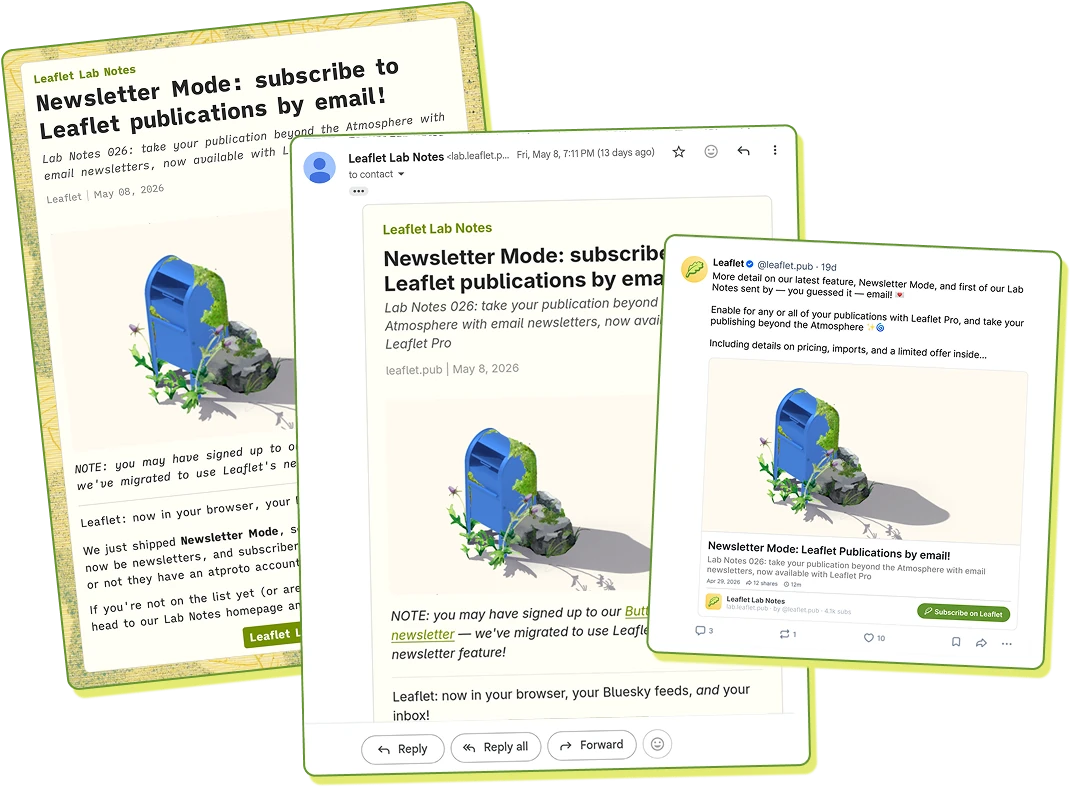
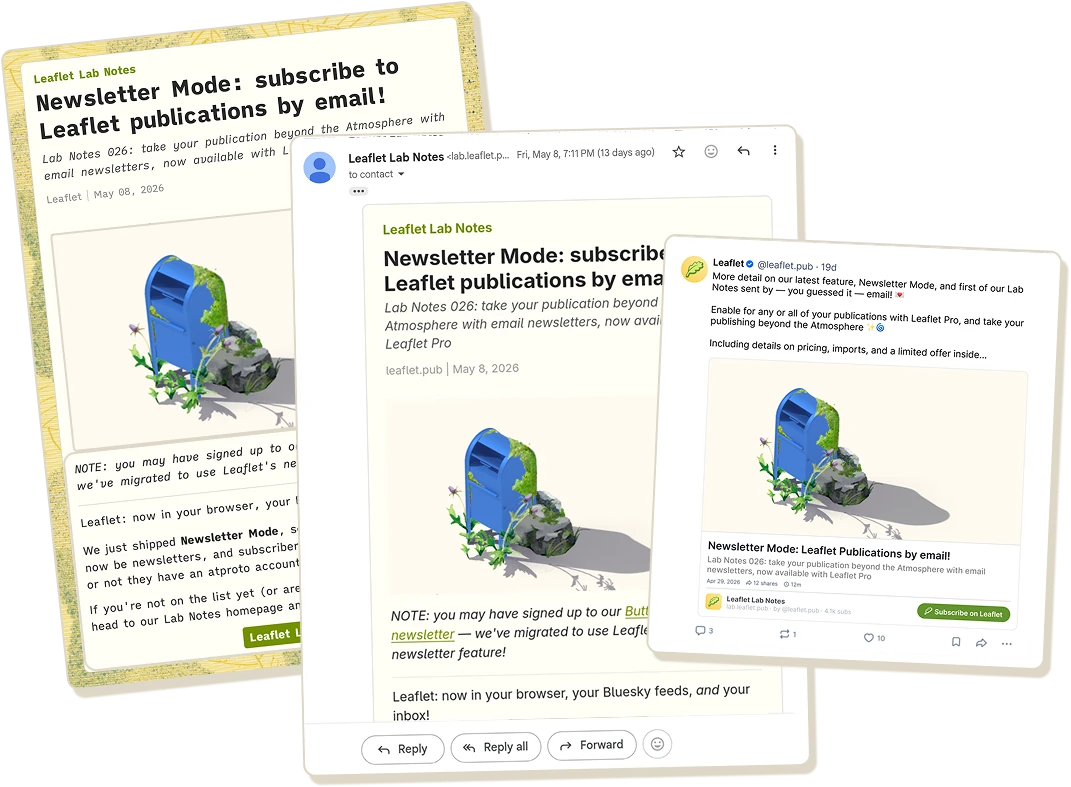
updated landing page just a smidge

diff --git a/components/Blocks/StandardSitePostBlock/index.tsx b/components/Blocks/StandardSitePostBlock/index.tsx
@@ -89,14 +89,11 @@ function StandardSitePostSettingsButton(props: { entityID: string }) {
         <SettingsTriggerButton aria-label="Standard Site Post Settings" />
       }
     >
-      <div className="flex flex-col gap-2 w-xs pt-1 p-3! overflow-y-auto">
+      <div className="flex flex-col gap-2 w-full sm:w-[1000px] sm:max-w-md pt-1 p-3! overflow-y-auto">
         <div>
           <h4>Post Size</h4>
-          <div className="text-sm text-tertiary italic">
-            This block links to a Standard Site article.
-          </div>
         </div>
-        <div className="flex flex-col gap-3 w-full">
+        <div className="flex sm:flex-row flex-col sm:gap-1 gap-2 w-full items-stretch">
           {(
             [
               { value: "small", Icon: SmallIcon },
@@ -114,7 +111,7 @@ function StandardSitePostSettingsButton(props: { entityID: string }) {
                 size !== "large");
             return (
               <button
-                className="text-left"
+                className={`PostBlockSizeSettingOption text-left flex flex-col flex-1 pt-1 p-2 outline-2 outline-offset-1 border ${selected ? "accent-container outline-accent-contrast border-accent-contrast " : "opaque-container outline-transparent"}`}
                 key={option.value}
                 type="button"
                 aria-pressed={selected}
@@ -130,7 +127,12 @@ function StandardSitePostSettingsButton(props: { entityID: string }) {
                   });
                 }}
               >
-                <option.Icon selected={selected} />
+                <div className="text-xs font-bold text-secondary uppercase">
+                  {option.value}
+                </div>
+                <div className="flex items-center grow w-full ">
+                  <option.Icon selected={selected} />
+                </div>
               </button>
             );
           })}
@@ -154,22 +156,32 @@ function StandardSitePostSettingsButton(props: { entityID: string }) {
   );
 }
 
+function PlaceholderText(size: "sm" | "md" | "lg", width?: string) {
+  return (
+    <div
+      className={`
+        ${width ? `w-[${width}]` : "w-full"}
+        ${
+          size === "sm"
+            ? "h-1.5 bg-border-light"
+            : size === "lg"
+              ? "h-3 bg-border"
+              : "w-full h-1.5 bg-border"
+        }
+        rounded-[2px]`}
+    />
+  );
+}
+
 const SmallIcon = ({ selected }: { selected: boolean }) => {
   return (
     <div
-      className={`flex flex-col pt-1 p-2 outline-2 outline-offset-1 border ${selected ? "accent-container outline-accent-contrast border-accent-contrast " : "opaque-container outline-transparent"}`}
+      className={`flex gap-2 p-2 w-full overflow-hidden opaque-container border-tertiary! ${selected && "border-accent-contrast!"}`}
     >
-      <div className="text-xs font-bold text-secondary">SMALL</div>
-      <div
-        className={`flex gap-2 p-2 w-full overflow-hidden opaque-container border-tertiary! ${selected && "border-accent-contrast!"}`}
-      >
-        <div className="flex flex-col gap-1 grow min-w-0">
-          <div className="w-full h-4 bg-border rounded-[2px]" />
-
-          <div className="flex justify-between mt-1 w-full">
-            <div className="w-[60%]  h-2 bg-border-light rounded-[2px]" />
-            <div className="w-6 h-2 bg-border-light rounded-[2px]" />
-          </div>
+      <div className="flex flex-col gap-1 grow min-w-0">
+        {PlaceholderText("lg")}
+        <div className="flex justify-between mt-1 w-full">
+          {PlaceholderText("sm", "60%")}
         </div>
       </div>
     </div>
@@ -179,29 +191,23 @@ const SmallIcon = ({ selected }: { selected: boolean }) => {
 const MedIcon = ({ selected }: { selected: boolean }) => {
   return (
     <div
-      className={`flex flex-col pt-1 p-2 outline-2 outline-offset-1 border ${selected ? "accent-container outline-accent-contrast border-accent-contrast " : "opaque-container outline-transparent"}`}
+      className={`flex opaque-container border-tertiary! overflow-hidden w-full ${selected && "border-accent-contrast!"}`}
     >
-      <div className="text-xs font-bold text-secondary">MEDIUM</div>
-      <div
-        className={`flex opaque-container border-tertiary! overflow-hidden ${selected && "border-accent-contrast!"}`}
-      >
-        <div className="flex flex-col gap-1 p-2 grow min-w-0">
-          <div className="w-full h-4 bg-border rounded-[2px]" />
-          <div className="w-full h-2 bg-border mt-1 rounded-[2px]" />
-          <div className="w-full h-2 bg-border rounded-[2px]" />
-          <div className="flex justify-between mt-2 w-full">
-            <div className="w-[60%]  h-2 bg-border-light rounded-[2px]" />
-            <div className="w-6 h-2 bg-border-light rounded-[2px]" />
-          </div>
+      <div className="flex flex-col gap-1 p-2 grow min-w-0">
+        {PlaceholderText("lg")}
+        {PlaceholderText("md")}
+        {PlaceholderText("md", "80%")}
+        <div className="flex justify-between mt-2 w-full">
+          {PlaceholderText("sm", "60%")}
         </div>
-        <div
-          className="aspect-square h-[82px] bg-border border-l border-border shrink-0 bg-cover bg-center"
-          style={{
-            backgroundImage: "url(/imagePlaceholder.png)",
-            backgroundBlendMode: "hard-light",
-          }}
-        />
       </div>
+      <div
+        className="sm:aspect 1/2 aspect-square h-[68px] bg-border border-l border-border shrink-0 bg-cover bg-center"
+        style={{
+          backgroundImage: "url(/imagePlaceholder.png)",
+          backgroundBlendMode: "hard-light",
+        }}
+      />
     </div>
   );
 };
@@ -209,27 +215,22 @@ const MedIcon = ({ selected }: { selected: boolean }) => {
 const LargeIcon = ({ selected }: { selected: boolean }) => {
   return (
     <div
-      className={`flex flex-col pt-1 p-2 outline-2 outline-offset-1 border ${selected ? "accent-container outline-accent-contrast border-accent-contrast " : "opaque-container outline-transparent"}`}
+      className={`flex flex-col w-full gap-1 opaque-container border-tertiary! overflow-hidden ${selected && "border-accent-contrast!"}`}
     >
-      <div className="text-xs font-bold text-secondary">LARGE</div>
       <div
-        className={`flex flex-col gap-1 opaque-container border-tertiary! overflow-hidden ${selected && "border-accent-contrast!"}`}
-      >
-        <div
-          className="w-full aspect-video bg-border bg-cover bg-center border-b border-border"
-          style={{
-            backgroundImage: "url(/imagePlaceholder.png)",
-            backgroundBlendMode: "hard-light",
-          }}
-        />
+        className="w-full aspect-4/1 sm:aspect-2/1 bg-border bg-cover bg-center border-b border-border"
+        style={{
+          backgroundImage: "url(/imagePlaceholder.png)",
+          backgroundBlendMode: "hard-light",
+        }}
+      />
 
-        <div className="flex flex-col gap-1 p-2 pt-0.5!">
-          <div className="w-full h-4 bg-border rounded-[2px]" />
-          <div className="w-full h-2 bg-border mt-1 rounded-[2px]" />
-          <div className="flex justify-between mt-2 w-full">
-            <div className="w-[60%]  h-2 bg-border-light rounded-[2px]" />
-            <div className="w-6 h-2 bg-border-light rounded-[2px]" />
-          </div>
+      <div className="flex flex-col gap-1 p-2 pt-0.5!">
+        {PlaceholderText("lg")}
+        {PlaceholderText("md")}
+        {PlaceholderText("md", "80%")}
+        <div className="flex justify-between mt-2 w-full">
+          {PlaceholderText("sm", "60%")}
         </div>
       </div>
     </div>

diff --git a/app/about/AboutPage.tsx b/app/about/AboutPage.tsx
@@ -22,17 +22,14 @@ export function AboutPage() {
     <main
       className={`${ibmPlexSerif.variable} aboutPage w-full bg-[#FDFCFA] flex flex-col justify-center sm:px-12 px-4 mx-auto overflow-x-clip overflow-y-auto`}
     >
-      <div className="spacer h-[96px] sm:h-[160px]" />
-      <div className="aboutCover relative  max-w-full mx-auto w-[800px] flex flex-col gap-3 sm:gap-4">
-        <h1
-          className={` text-[#57822B] leading-none absolute -top-16 left-4 sm:-top-28 md:-left-16 sm:left-6 z-10`}
-          style={{
-            textShadow: "3px 7px 0 #D9EA72",
-            WebkitTextStroke: "0.5px #D9EA72",
-          }}
-        >
-          Leaflet
-        </h1>
+      <div className="spacer h-[48px] sm:h-[96px]" />
+      <div className="aboutCover relative  max-w-full mx-auto w-[960px] flex flex-col gap-3 sm:gap-4">
+        <h1 className={`hidden`}>Leaflet</h1>
+        <img
+          src="/about/HeroText.png"
+          alt=""
+          className="absolute left-1/2 -translate-x-1/2 top-0 sm:top-[3%] z-10 w-[90%] sm:w-[75%]"
+        />
 
         <img
           src="/about/hero.webp"
@@ -42,12 +39,17 @@ export function AboutPage() {
         <LandingCTA />
       </div>
 
-      <p className=" pt-6 text-tertiary text-center leading-snug mx-auto text-lg sm:text-xl!">
-        Delightful writing and effortless publishing, to connect with your
-        community — whether you're writing a blog, newsletter, or secret third
-        thing.
+      <p className=" pt-6 sm:pt-12 text-tertiary text-center leading-snug mx-auto text-lg sm:text-xl!">
+        Delightful connection to your community <br />
+        with a blog, newsletter, or secret third thing.
       </p>
-      <div className="pt-12">
+      <div className="mt-12 sm:mt-24 py-6 sm:p-12 bg-[#F1EDE5] rounded-[12px] sm:rounded-[24px]">
+        <div className="text-center mx-auto pb-3 sm:pb-6">
+          <h3>Powerful Publishing Tools</h3>
+          <p className="text-secondary">
+            Easily write and manage posts, and track subscriptions
+          </p>
+        </div>
         <Media mobile={false}>
           <InteractiveAppDemo />
         </Media>

diff --git a/app/about/Features.tsx b/app/about/Features.tsx
@@ -1,45 +1,53 @@
 export const Features = () => {
   return (
     <>
-      <div className="aboutSpotlightFeatures pt-24 flex flex-col gap-16">
+      <div className="aboutSpotlightFeatures pt-16 sm:pt-32 flex flex-col gap-16  sm:gap-32">
         <div className="flex md:flex-row flex-col md:gap-12 gap-4 justify-center">
           <img
-            src="/about/reach-audience.webp"
+            src="/about/reach-audience.png"
             alt=""
             className="w-fill min-w-[160px] max-w-[720px] grow mx-auto"
           />
           <div className="flex flex-col w-fill max-w-sm text-center md:text-left md:py-4 py-0 mx-auto">
             <h3>Reach your readers</h3>
-            <p>
-              Send updates via email, Bluesky, and the Atmosphere — a social
-              ecosystem with millions of users
+            <p className="text-secondary">
+              Send updates via Email, Bluesky, and the Atmosphere{" "}
+            </p>
+            <p className="text-secondary pt-2">
+              Leverage a social ecosystem with millions of users
             </p>
           </div>
         </div>
         <div className="flex md:flex-row flex-col-reverse md:gap-8 gap-4 justify-center">
           <div className="flex flex-col w-fill max-w-sm text-center md:text-right md:py-4 py-0 mx-auto">
             <h3>Express yourself</h3>
-            <p>Custom themes and custom domains: $0</p>
+            <p className="text-secondary">
+              Free custom themes <br />
+              and domains
+            </p>
           </div>
           <img
-            src="/about/customize.webp"
+            src="/about/customize.png"
             alt=""
             className="w-fill min-w-[160px] max-w-[720px] grow mx-auto"
           />
         </div>
       </div>
-      <div className="flex gap-3 sm:gap-8  w-fit mx-auto pt-12 sm:pt-20 items-stretch">
+      <div className="flex sm:flex-row flex-col gap-4 sm:gap-8  w-fit mx-auto pt-12 sm:pt-20 items-stretch">
         <div className="flex-1 flex flex-col text-center">
           <h4>Write together</h4>
-          <p>
+          <p className="text-secondary">
             Collaborative editing <br />
             and easy sharing
           </p>
         </div>
-        <div className="border-l border-t border-border w-px " />
+        <div className="border-l border-t border-border sm:w-px w-full " />
         <div className="flex-1 flex flex-col text-center">
           <h4>Build your community</h4>
-          <p>Newsletters, events, conversations and more</p>
+          <p className="text-secondary">
+            Newsletters, events, <br />
+            conversations and more
+          </p>
         </div>
       </div>
     </>